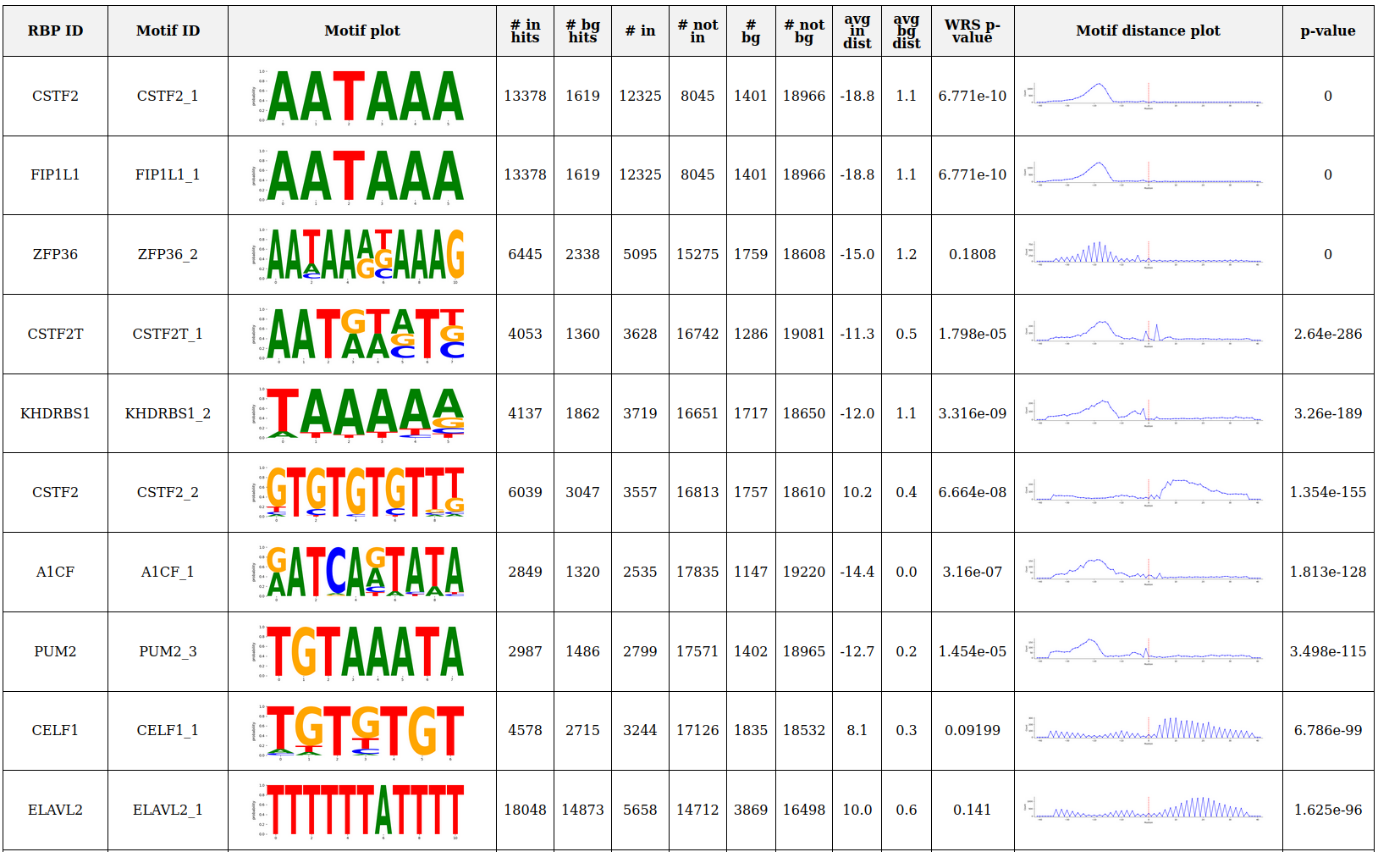
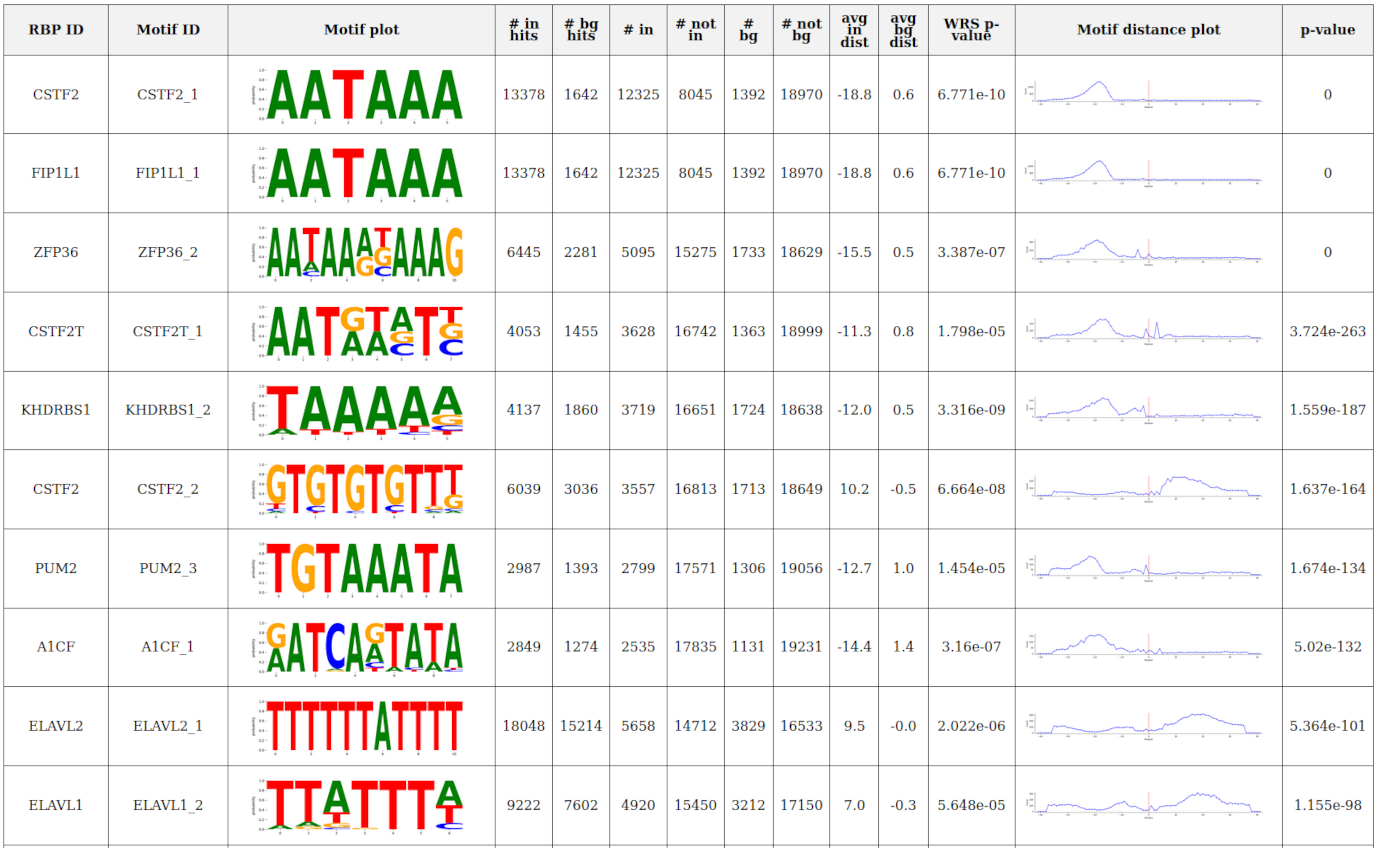
mo

diff --git a/rbpbench/benchlib.py b/rbpbench/benchlib.py
@@ -9525,17 +9525,10 @@ def get_hit_id_elements(hit_id):
 
 ################################################################################
 
-def get_center_position(start, end):
+def get_center_position_old(start, end):
     """
     Get center position (1-based), given a (genomic) start (0-based) and
     end coordinate (1-based).
-
-    >>> get_center_position(10, 11)
-    11
-    >>> get_center_position(1000,2000)
-    1501
-    >>> get_center_position(11, 20)
-    17
 
     """
     # If region has length of 1, return end position.
@@ -9544,6 +9537,27 @@ def get_center_position(start, end):
     if not end - start == 1:
         center_pos = round( ( (end - start) / 2 ) + start ) + 1
     return center_pos
+
+
+################################################################################
+
+def get_center_position(start, end):
+    """
+    Get center position (1-based), given a (genomic) start (0-based) and
+    end coordinate (1-based).
+
+    >>> get_center_position(10, 11)
+    11
+    >>> get_center_position(1000, 2000)
+    1501
+    >>> get_center_position(11, 20)
+    16
+    >>> get_center_position(3, 8)
+    6
+    """
+    length = end - start  # number of bases covered.
+    center_0based = start + length // 2
+    return center_0based + 1
 
 
 ################################################################################
@@ -10679,6 +10693,67 @@ class MotifStats:
 
 ################################################################################
 
+def filter_dic_by_motif_lengths(seq_motif_blocks_dic,
+                                str_motif_blocks_dic,
+                                loaded_rbps_dic,
+                                loaded_motif_ids_dic,
+                                id2name_dic,
+                                id2len_dic,
+                                motif_min_len=False,
+                                motif_max_len=False):
+    """
+    Filter dictionaries to remove motifs that do not fit set sequence motif 
+    min+max lengths.
+
+    """
+
+    flt_seq_motif_blocks_dic = {}
+    flt_loaded_rbps_dic = {}
+    flt_loaded_motif_ids_dic = {}
+    flt_name2ids_dic = {}
+    c_flt_out = 0
+
+    for motif_id in seq_motif_blocks_dic:
+        motif_len = id2len_dic[motif_id]
+        if length_within_bounds(motif_len, min_len=motif_min_len, max_len=motif_max_len):
+            rbp_id = id2name_dic[motif_id]
+            if rbp_id not in loaded_rbps_dic:  # If single RBPs have been selected (not ALL).
+                continue
+            # print("Keeping motif ID %s (RBP ID:%s) with length %d" %(motif_id, rbp_id, motif_len))
+            flt_seq_motif_blocks_dic[motif_id] = seq_motif_blocks_dic[motif_id]
+            flt_loaded_motif_ids_dic[motif_id] = loaded_motif_ids_dic[motif_id]
+            flt_loaded_rbps_dic[rbp_id] = loaded_rbps_dic[rbp_id]
+            if rbp_id not in flt_name2ids_dic:
+                flt_name2ids_dic[rbp_id] = []
+            flt_name2ids_dic[rbp_id].append(motif_id)
+        else:
+            c_flt_out += 1
+    
+    # Add back structure motifs.
+    if str_motif_blocks_dic:
+        for motif_id in str_motif_blocks_dic:
+            rbp_id = id2name_dic[motif_id]
+            if rbp_id not in loaded_rbps_dic:
+                continue
+            flt_loaded_rbps_dic[rbp_id] = loaded_rbps_dic[rbp_id]
+            flt_loaded_motif_ids_dic[motif_id] = loaded_motif_ids_dic[motif_id]
+            if rbp_id not in flt_name2ids_dic:
+                flt_name2ids_dic[rbp_id] = []
+            flt_name2ids_dic[rbp_id].append(motif_id)
+
+    return flt_seq_motif_blocks_dic, flt_loaded_rbps_dic, flt_loaded_motif_ids_dic, flt_name2ids_dic, c_flt_out
+
+    # seq_motif_blocks_dic = flt_seq_motif_blocks_dic
+    # loaded_rbps_dic = flt_loaded_rbps_dic
+    # loaded_motif_ids_dic = flt_loaded_motif_ids_dic
+    # name2ids_dic = flt_name2ids_dic
+
+    # assert loaded_rbps_dic, "no MEME/DREME sequence motifs left after length filtering. Please adjust length filter range (--motif-min-len, --motif-max-len), RBP selection, or disable length filtering!"
+
+
+
+################################################################################
+
 def get_seq_motif_lengths(seq_motif_blocks_dic):
     """
     Get motif lengths dictionary (motif_id -> motif_length) from
@@ -11466,7 +11541,7 @@ def filter_out_center_motif_hits(hits_list, core_rel_reg_dic,
         # Can be negative if hit upstream of center, or positive if hit downstream.
         hit.center_dist = hit_center_pos - core_center_pos
 
-        flt_hits_list.append(hit)
+        flt_hits_list.append(hit)  # AALAMO
 
     return flt_hits_list
 
@@ -19610,7 +19685,7 @@ No motif hit profiles plot generated since < 4 input sequences have motif hits.
 
             mdtext += """
 **Table:** List of sequences (top %i) most similar to set sequence \"%s\" (via --profiles-seq-id) based on their motif hit profiles.
-*Cosine similarity* of motif hit vectors is used as similarity measure. Note that sequences with no hits cannot appear in this list.
+**Cosine similarity** of motif hit vectors is used as similarity measure. Note that sequences with no hits cannot appear in this list.
 """ %(args.profiles_top_n, args.profiles_seq_id)
 
             # Top cosine similarities list.
@@ -19653,7 +19728,7 @@ No motif hit profiles plot generated since < 4 input sequences have motif hits.
 
             mdtext += """
 **Table:** List of sequences (top %i) closest to set sequence \"%s\" (via --profiles-seq-id) based on their motif hit profiles.
-*Euclidean distance* of motif hit vectors is used as distance measure. Note that sequences with no hits cannot appear in this list.
+**Euclidean distance** of motif hit vectors is used as distance measure. Note that sequences with no hits cannot appear in this list.
 """ %(args.profiles_top_n, args.profiles_seq_id)
             
             # Top euclidean distances list.
@@ -19794,7 +19869,7 @@ No k-mer hit profiles plot generated since < 4 input sequences have non-zero k-m
 
             mdtext += """
 **Table:** List of sequences (top %i) most similar to set sequence \"%s\" (via --profiles-seq-id) based on their k-mer (k = %i) percentage profiles.
-*Cosine similarity* of k-mer percentage vectors is used as similarity measure. Note that sequences without valid k-mers cannot appear in this list.
+**Cosine similarity** of k-mer percentage vectors is used as similarity measure. Note that sequences without valid k-mers cannot appear in this list.
 """ %(args.profiles_top_n, args.profiles_seq_id, args.profiles_k)
 
             # Top cosine similarities list.
@@ -19837,7 +19912,7 @@ No k-mer hit profiles plot generated since < 4 input sequences have non-zero k-m
 
             mdtext += """
 **Table:** List of sequences (top %i) closest to set sequence \"%s\" (via --profiles-seq-id) based on their k-mer (k = %i) percentage profiles.
-*Euclidean distance* of k-mer percentage vectors is used as distance measure. Note that sequences without valid k-mers cannot appear in this list.
+**Euclidean distance** of k-mer percentage vectors is used as distance measure. Note that sequences without valid k-mers cannot appear in this list.
 """ %(args.profiles_top_n, args.profiles_seq_id, args.profiles_k)
             
             # Top euclidean distances list.
